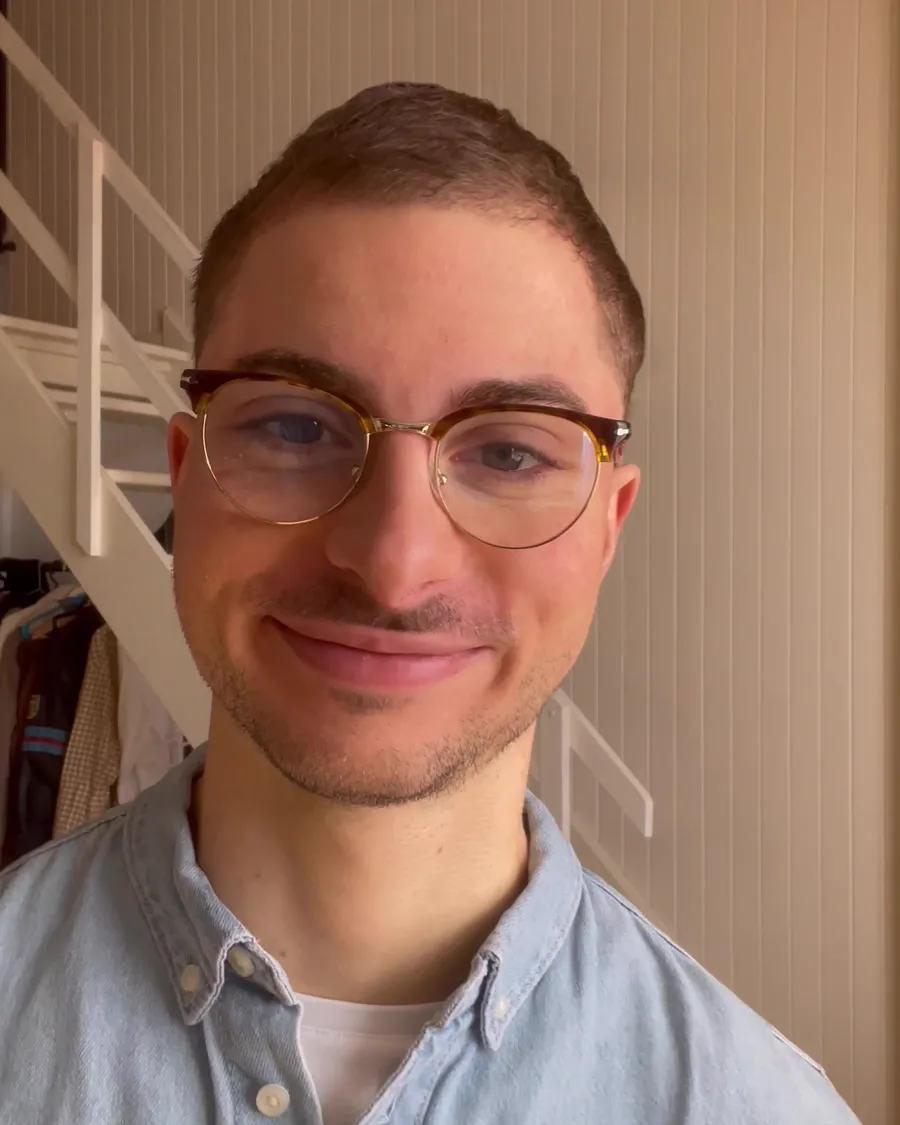
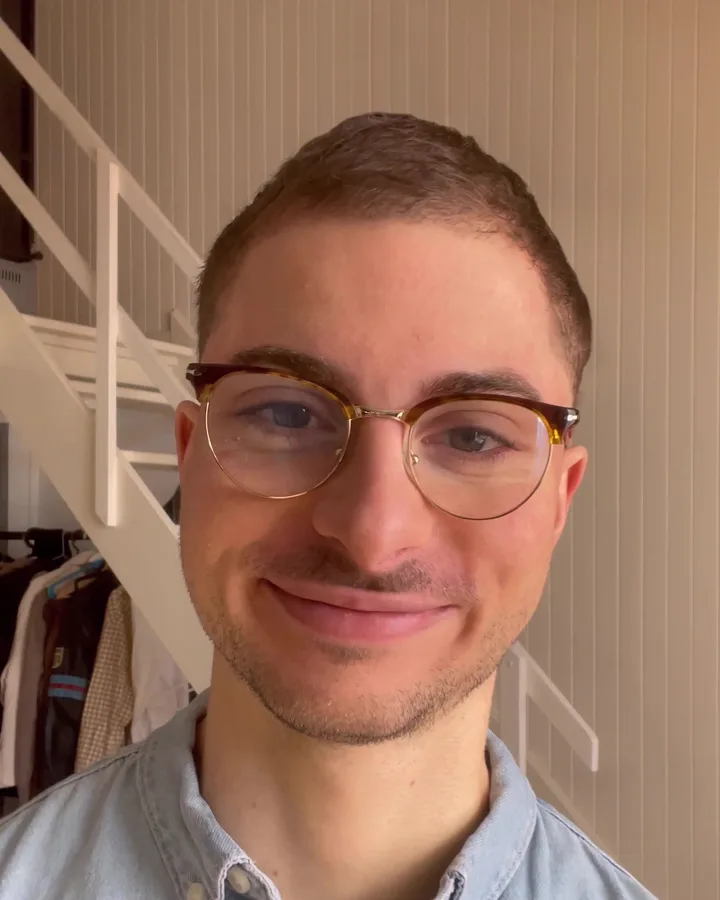
Aperçu : retours de Victor (photo, formules, textes, page Mon histoire)

diff --git a/index.html b/index.html
@@ -28,10 +28,12 @@
 <main class="page">
   <header class="entete">
     <img class="logo" src="/img/logo-VA-180px.png" width="40" height="40" alt="Logo VA de Victor Amilien">
-    <div class="photo"><img src="/img/profil.webp" width="600" height="600" alt="Victor Amilien, souriant, en chemise à carreaux"></div>
+    <div class="portrait"><img src="/img/portrait-jean.webp" width="720" height="900" alt="Victor Amilien, en chemise en jean, sourit"></div>
     <h1>Victor Amilien</h1>
     <p class="desc">Coach nutrition &amp; sport</p>
     <p class="intro">Moi, c'est Victor. Le sport et la nutrition m'ont fait comprendre une chose&nbsp;: prendre soin de soi, un peu chaque jour, c'est apprendre à se regarder avec plus de <em>douceur</em>. Aujourd'hui, je construis avec toi un coaching qui te ressemble&nbsp;: il part de ton quotidien et avance à ton rythme.</p>
+    <a class="lien-histoire" href="/mon-histoire/">Découvrir mon histoire
+      <svg width="18" height="18" viewBox="0 0 24 24" fill="none" stroke="currentColor" stroke-width="2" stroke-linecap="round" stroke-linejoin="round" aria-hidden="true"><path d="M5 12h14M13 6l6 6-6 6"/></svg></a>
   </header>
 
   <nav class="actions" aria-label="Me contacter">
@@ -45,28 +47,36 @@
       M'écrire un e-mail</a>
   </nav>
   <div class="reseaux">
-    <a href="https://www.instagram.com/victoramilien/" aria-label="Instagram @victoramilien">
-      <svg viewBox="0 0 24 24" fill="none" stroke="currentColor" stroke-width="1.8" aria-hidden="true"><rect x="3" y="3" width="18" height="18" rx="5"/><circle cx="12" cy="12" r="4"/><circle cx="17.5" cy="6.5" r="1" fill="currentColor" stroke="none"/></svg></a>
+    <a class="insta" href="https://www.instagram.com/victoramilien/">
+      <svg viewBox="0 0 24 24" fill="none" stroke="currentColor" stroke-width="1.8" aria-hidden="true"><rect x="3" y="3" width="18" height="18" rx="5"/><circle cx="12" cy="12" r="4"/><circle cx="17.5" cy="6.5" r="1" fill="currentColor" stroke="none"/></svg>
+      <span><strong>@victoramilien</strong> sur Instagram</span></a>
   </div>
 
   <section class="carte" id="nutrition">
     <h2>🍽 Mon accompagnement nutrition</h2>
-    <p><strong>129&nbsp;€ par mois sur 3&nbsp;mois.</strong> Envie de prendre ton temps&nbsp;? <strong>119&nbsp;€ sur 6&nbsp;mois</strong>, et tu économises 60&nbsp;€. Tu préfères commencer en douceur&nbsp;? C'est possible aussi, sans engagement, à <strong>149&nbsp;€</strong>.</p>
-    <p>On démarre par une consultation à <strong>69&nbsp;€</strong>, déduite de ton premier mois si tu continues dans les 7&nbsp;jours&nbsp;😊</p>
-    <p class="repere">✨ Pour les 5 premières personnes&nbsp;: ton 4e&nbsp;mois est offert&nbsp;!</p>
+    <ul class="formules">
+      <li><p class="formule">3&nbsp;mois · 129&nbsp;€ par mois</p>
+        <p>Le temps de commencer à te sentir mieux dans ton corps comme dans ton esprit, jour après jour.</p></li>
+      <li><p class="formule">6&nbsp;mois · 119&nbsp;€ par mois</p>
+        <p>Pour que prendre soin de toi devienne naturel, et que tu te sentes enfin en paix avec toi-même.</p></li>
+      <li><p class="formule">Sans engagement · <span style="white-space:nowrap">149&nbsp;€ par mois</span></p>
+        <p>Tu veux d'abord voir si ça te plaît&nbsp;? On avance mois par mois, et tu arrêtes quand tu veux.</p></li>
+    </ul>
+    <p>On démarre par une consultation à <strong>69&nbsp;€</strong>. Si tu continues dans les 7&nbsp;jours, je la déduis de ton premier mois&nbsp;: sur les 3&nbsp;mois, ton premier mois passe alors à <strong>60&nbsp;€</strong>&nbsp;😊</p>
+    <p class="repere">✨ Pour les 5 premières personnes qui choisissent les 3&nbsp;mois, d'ici le 31&nbsp;décembre&nbsp;: ton 4e&nbsp;mois est offert&nbsp;!</p>
   </section>
 
   <section class="carte" id="ensemble">
-    <h2>Ce qu'on vit ensemble&nbsp;✨</h2>
-    <p>On commence par un vrai moment d'échange, jusqu'à 1&nbsp;h&nbsp;15, pour apprendre à te connaître&nbsp;: ton quotidien et la façon dont tu te sens. Tu repars déjà avec tes premières pistes, et tout ce qu'on fait ensuite est pensé pour toi.</p>
+    <h2>Concrètement, comment ça se passe&nbsp;?</h2>
+    <p>On commence par un vrai moment d'échange, jusqu'à 1&nbsp;h&nbsp;15, pour apprendre à te connaître&nbsp;: ton quotidien et la façon dont tu te sens. Tu repars déjà avec tes premiers conseils, et tout ce qu'on fait ensuite est pensé pour toi.</p>
     <p>Ensuite, on se retrouve en visio deux fois par mois, pendant environ 45&nbsp;minutes.</p>
-    <p>Entre deux rendez-vous, je suis là sur WhatsApp, 6&nbsp;jours sur&nbsp;7. Envoie-moi tes questions ou une photo de ton assiette, je te réponds sous 24&nbsp;h.</p>
-    <p>Et dès le début de ton accompagnement, tu reçois ton document de bienvenue et un guide choisi pour ta situation&nbsp;😊</p>
+    <p>Entre deux rendez-vous, si tu as besoin de quoi que ce soit, je suis là pour toi sur WhatsApp, 6&nbsp;jours sur&nbsp;7. Je te réponds sous 24&nbsp;h.</p>
+    <p>Et dès le début de ton accompagnement, tu reçois tout ce qu'il faut pour bien démarrer, avec un petit guide choisi ensemble, selon ton besoin du moment&nbsp;😊</p>
   </section>
 
   <section class="carte" id="sport">
     <h2>🏃 Le coaching sportif arrive très bientôt&nbsp;!</h2>
-    <p>J'ai choisi de commencer par la nutrition pour prendre le temps de bien accompagner chacun. Le sport, je le prépare avec le même soin&nbsp;: ce sera à partir de 129&nbsp;€ par mois, et si tu veux les deux, tu ajoutes seulement 50&nbsp;€. Envie d'être prévenu(e) en premier&nbsp;? Inscris-toi sur la liste&nbsp;👇</p>
+    <p>J'ai choisi de lancer d'abord la nutrition, pour prendre le temps d'écouter chaque personne et de faire les choses bien. En parallèle, je travaille sur le sport, avec un seul but&nbsp;: te proposer une expérience de qualité, adaptée à tes besoins. Ce sera à partir de 129&nbsp;€ par mois, et si tu veux les deux, tu ajoutes seulement 50&nbsp;€. Envie d'être prévenu(e) en premier&nbsp;? Inscris-toi sur la liste&nbsp;👇</p>
     <a class="btn" href="https://tally.so/r/jeZJd9">Réserve ta place</a>
   </section>
 

diff --git a/mon-histoire/index.html b/mon-histoire/index.html
@@ -1,0 +1,53 @@
+<!doctype html>
+<html lang="fr">
+<head>
+<meta charset="utf-8">
+<meta name="robots" content="noindex, nofollow">
+<meta name="viewport" content="width=device-width, initial-scale=1">
+<title>Mon histoire · Victor Amilien</title>
+<meta name="description" content="Moi, c'est Victor. Le sport et la nutrition ont été mes premiers leviers pour me sentir en paix avec moi-même et avec mon corps.">
+<link rel="canonical" href="https://victoramilien.fr/mon-histoire/">
+<meta property="og:type" content="website">
+<meta property="og:locale" content="fr_FR">
+<meta property="og:url" content="https://victoramilien.fr/mon-histoire/">
+<meta property="og:title" content="Mon histoire · Victor Amilien">
+<meta property="og:image" content="https://victoramilien.fr/img/apercu-partage.jpg">
+<meta name="theme-color" content="#D6EEFB">
+<link rel="icon" type="image/png" sizes="32x32" href="/img/favicon-32.png">
+<link rel="icon" type="image/png" sizes="64x64" href="/img/favicon-64.png">
+<link rel="apple-touch-icon" href="/img/apple-touch-icon.png">
+<link rel="preload" href="/fonts/fraunces-latin-opsz-normal.woff2" as="font" type="font/woff2" crossorigin>
+<link rel="preload" href="/fonts/dm-sans-latin-opsz-normal.woff2" as="font" type="font/woff2" crossorigin>
+<link rel="stylesheet" href="/css/style.css">
+</head>
+<body>
+<main class="page">
+  <header class="entete">
+    <a href="/" aria-label="Accueil, Victor Amilien"><img class="logo" src="/img/logo-VA-180px.png" width="40" height="40" alt="Logo VA de Victor Amilien"></a>
+    <div class="portrait"><img src="/img/portrait-dehors.webp" width="720" height="900" alt="Victor Amilien dehors, en t-shirt rose, adossé à un mur en pierre"></div>
+    <h1>Mon histoire</h1>
+  </header>
+
+  <article class="carte histoire">
+    <p class="accroche">Moi, c'est Victor.</p>
+    <p>Il y a quelques années, j'ai traversé une période compliquée. Pour m'en sortir, j'ai fait un choix&nbsp;: m'accorder de l'importance.</p>
+    <p>Le sport et la nutrition ont été mes premiers leviers. Je voulais me sentir bien, en paix avec moi-même et avec mon corps. Petit à petit, ma qualité de vie a changé, et le regard que je portais sur moi aussi.</p>
+    <p>Après ma licence en pharmacie, j'ai travaillé plusieurs années en salle de sport. Très vite, on m'a demandé conseil, sur l'entraînement comme sur l'alimentation. Je répondais avec ce que j'avais appris en autodidacte, à force de lire et d'expérimenter. Puis j'ai voulu aller plus loin&nbsp;: je me suis formé, porté par une envie, celle d'accompagner chaque personne avec justesse.</p>
+    <p>Aujourd'hui, mon métier, c'est de t'aider à prendre soin de toi à travers la nutrition et le sport. Pour que tu réapprennes à aimer ton corps, et à t'aimer toi.</p>
+    <p>Ici, tout le monde a sa place. Que tu fasses tes premiers pas ou que tu aies déjà testé mille régimes et programmes, on part de là où tu en es et on avance en douceur, avec un coaching construit autour de ta vie.</p>
+    <p>Et sur ce chemin, ce que montrent la balance et le miroir est un repère. Ce que tu ressens au fond de toi en est un autre, tout aussi précieux. Ensemble, on prend soin des deux.</p>
+    <p>Maintenant que tu me connais un peu mieux, j'ai hâte de découvrir ton histoire à toi&nbsp;😊</p>
+    <p class="signature">Victor</p>
+    <a class="btn principal" href="https://tally.so/r/0VVOgP">Faisons connaissance
+      <svg viewBox="0 0 24 24" fill="none" stroke="currentColor" stroke-width="2" stroke-linecap="round" stroke-linejoin="round" aria-hidden="true"><path d="M5 12h14M13 6l6 6-6 6"/></svg></a>
+  </article>
+
+  <footer class="pied">
+    <nav aria-label="Informations légales">
+      <a href="/mentions-legales/">Mentions légales</a><span class="sep">·</span><a href="/cgv/">CGV</a><span class="sep">·</span><a href="/politique-de-confidentialite/">Politique de confidentialité</a><br>
+      <a href="/resilier-mon-abonnement/">Résilier mon abonnement</a><span class="sep">·</span><a href="/renoncer-au-contrat/">Renoncer au contrat ici</a>
+    </nav>
+  </footer>
+</main>
+</body>
+</html>

diff --git a/css/style.css b/css/style.css
@@ -59,6 +59,8 @@ strong { font-weight: 700; }
 }
 .photo img { width: 100%; height: 100%; border-radius: 50%; object-fit: cover; display: block; border: 4px solid var(--creme); }
 .photo.petite { width: 128px; height: 128px; }
+.portrait { width: min(260px, 72vw); aspect-ratio: 4 / 5; margin: 0 auto; border-radius: 30px; padding: 4px; background: var(--ring); }
+.portrait img { width: 100%; height: 100%; object-fit: cover; border-radius: 26px; display: block; border: 4px solid var(--creme); }
 h1 { font-family: "Fraunces", Georgia, serif; font-weight: 600; font-size: 34px; line-height: 1.15; margin-top: 18px; letter-spacing: -0.01em; }
 .desc { font-size: 16px; margin-top: 4px; }
 .intro { margin-top: 18px; text-align: center; }
@@ -77,6 +79,7 @@ h1 { font-family: "Fraunces", Georgia, serif; font-weight: 600; font-size: 34px;
 .reseaux { display: flex; justify-content: center; margin-top: 18px; }
 .reseaux a { width: 48px; height: 48px; border-radius: 50%; display: grid; place-items: center; color: var(--nuit); border: 1.5px solid rgba(20, 33, 61, .25); }
 .reseaux svg { width: 22px; height: 22px; }
+.reseaux a.insta { width: auto; height: auto; min-height: 48px; padding: 10px 18px; border-radius: 999px; display: inline-flex; align-items: center; gap: 10px; text-decoration: none; font-size: 16px; }
 
 /* Cartes */
 .carte {
@@ -86,7 +89,18 @@ h1 { font-family: "Fraunces", Georgia, serif; font-weight: 600; font-size: 34px;
 .carte h2 { font-family: "Fraunces", Georgia, serif; font-weight: 600; font-size: 24px; line-height: 1.25; margin-bottom: 12px; }
 .carte p + p { margin-top: 10px; }
 .carte .btn { margin-top: 18px; }
+.formules { list-style: none; margin: 4px 0 16px; }
+.formules li { padding: 14px 0; border-bottom: 1px solid rgba(20, 33, 61, .12); }
+.formules li:first-child { padding-top: 4px; }
+.formules p + p { margin-top: 4px; }
+.formule { font-family: "Fraunces", Georgia, serif; font-weight: 600; font-size: 19px; }
 .repere { margin-top: 16px; background: var(--ciel); border-radius: 16px; padding: 12px 16px; font-weight: 500; }
+
+.lien-histoire { display: inline-flex; align-items: center; gap: 6px; margin-top: 12px; font-weight: 700; }
+.histoire p + p { margin-top: 14px; }
+.histoire .accroche { font-family: "Fraunces", Georgia, serif; font-size: 24px; font-weight: 600; }
+.histoire .signature { font-family: "Fraunces", Georgia, serif; font-style: italic; font-size: 22px; margin-top: 18px; }
+.histoire .btn { margin-top: 22px; }
 
 /* Pages de réservation */
 .calendrier {
@@ -134,4 +148,5 @@ h1 { font-family: "Fraunces", Georgia, serif; font-weight: 600; font-size: 34px;
 /* Pied de page */
 .pied { margin-top: 36px; text-align: center; font-size: 15px; line-height: 2.1; }
 .pied .sep { opacity: .5; margin: 0 6px; }
+.pied nav a, .pied .sep { display: inline-block; }
 .pied nav a { white-space: nowrap; }
